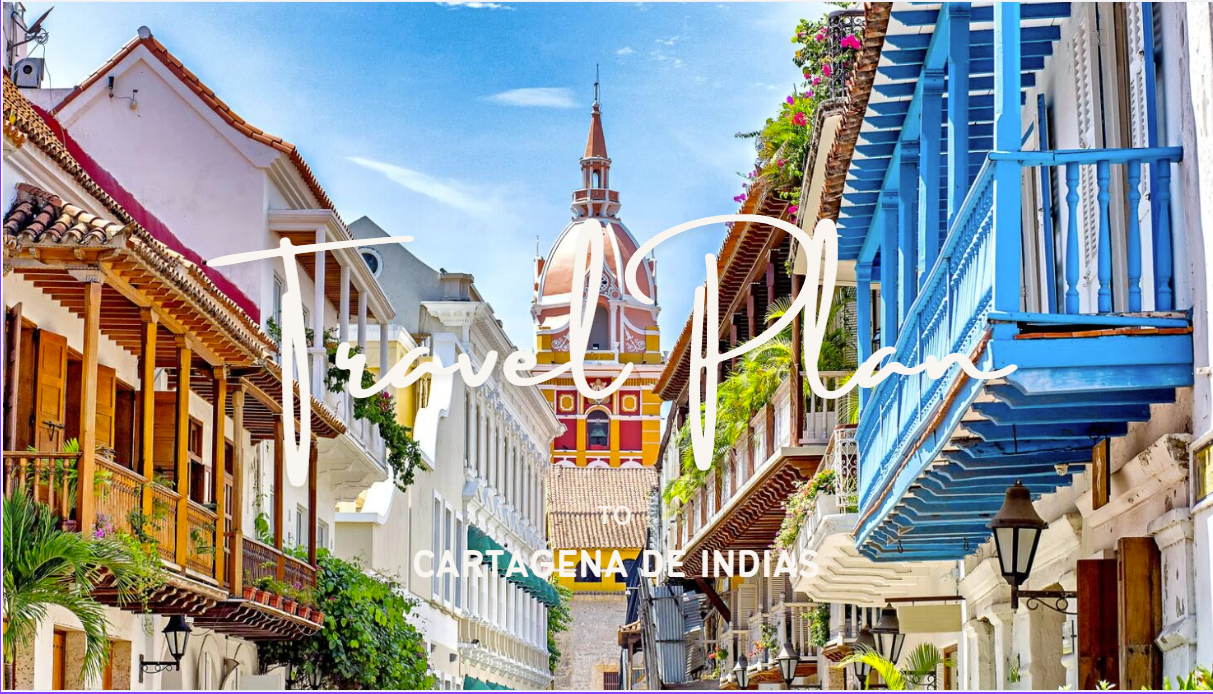
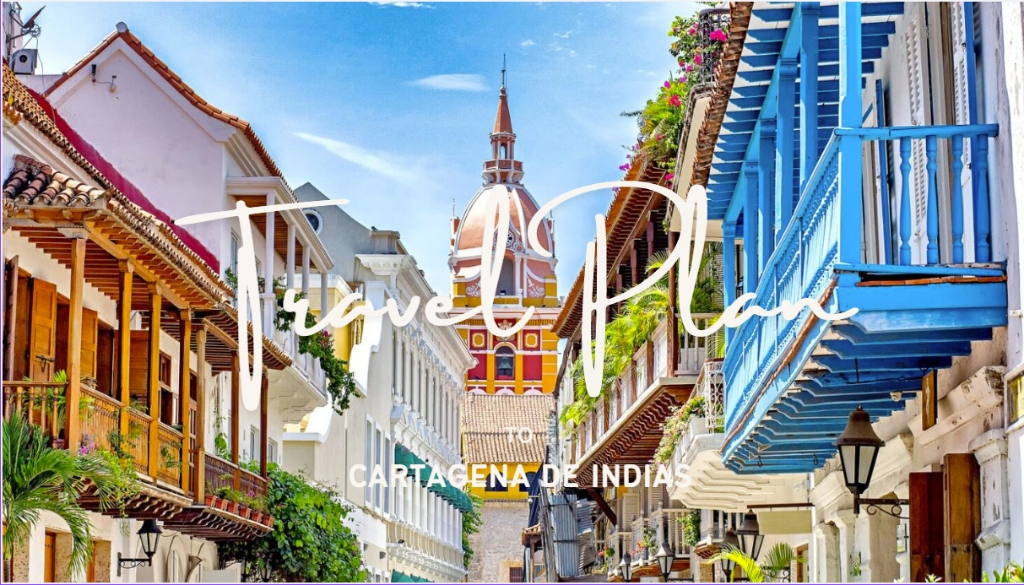
enlaces de canva

diff --git a/css/style.css b/css/style.css
@@ -1,19 +1,30 @@
 /* ==========================================================================
-   VARIABLES Y CONFIGURACIÓN GLOBAL
+   VARIABLES Y CONFIGURACIÓN GLOBAL (PALETA AZUL Y AMARILLO)
    ========================================================================== */
 :root {
-    --primary: #5548ea;
-    --primary-hover: #4335da;
-    --primary-light: #f7f5ff;
-    --primary-bubble: #e8e3ff;
-    --text-title: #1e293b;
-    --text-muted: #64748b;
-    --text-body: #475569;
-    --border-color: #e2e8f0;
-    --border-subtle: #f1f3f7;
-    --card-bg: #ffffff;
-    --body-bg: #ebf0f7;
-    --shadow-card: 0 12px 40px rgba(26, 42, 68, 0.07);
+    /* Azules */
+    --primary: #1d4ed8;            /* Azul vibrante elegante */
+    --primary-dark: #1e3a8a;       /* Azul marino profundo */
+    --primary-hover: #172554;      /* Azul noche para contrastes */
+    --primary-light: #f0f7ff;      /* Fondo azul cielo muy suave */
+    --primary-bubble: #dbeafe;     /* Azul claro para aros e iconos */
+
+    /* Amarillos */
+    --accent: #eab308;             /* Amarillo oro brillante */
+    --accent-hover: #ca8a04;       /* Amarillo dorado oscuro para hover */
+    --accent-light: #fefce8;       /* Amarillo crema sutil */
+    --accent-bubble: #fef08a;      /* Amarillo suave para iconos */
+
+    /* Textos y neutros */
+    --text-title: #0f172a;         /* Azul marino muy oscuro */
+    --text-muted: #64748b;         /* Gris azulado elegante */
+    --text-body: #334155;          /* Gris pizarra de alta legibilidad */
+    
+    --border-color: #cbd5e1;       /* Bordes de inputs */
+    --border-subtle: #f1f5f9;      /* Divisores entre proyectos */
+    --card-bg: #ffffff;            /* Blanco puro para tarjeta central */
+    --body-bg: #f1f5f9;            /* Fondo exterior gris azulado */
+    --shadow-card: 0 14px 40px rgba(15, 23, 42, 0.08);
     --transition: all 0.25s cubic-bezier(0.4, 0, 0.2, 1);
 }
 
@@ -87,12 +98,12 @@ body {
 }
 
 .nav-link:hover {
-    color: var(--text-title);
+    color: var(--primary-dark);
 }
 
-/* Pestaña activa con línea púrpura inferior */
+/* Pestaña activa con línea amarilla inferior */
 .nav-link.active {
-    color: var(--primary);
+    color: var(--primary-dark);
     font-weight: 600;
 }
 
@@ -102,8 +113,8 @@ body {
     bottom: -2px;
     left: 0;
     width: 100%;
-    height: 2.5px;
-    background-color: var(--primary);
+    height: 3px;
+    background-color: var(--accent);
     border-radius: 2px;
 }
 
@@ -125,13 +136,13 @@ body {
     display: inline-block;
 }
 
-/* Pequeña barra púrpura decorativa bajo la primera palabra */
+/* Barra amarilla decorativa bajo el título */
 .section-title::after {
     content: '';
     display: block;
     width: 32px;
     height: 3.5px;
-    background-color: var(--primary);
+    background-color: var(--accent);
     border-radius: 2px;
     margin-top: 8px;
 }
@@ -153,7 +164,7 @@ body {
     border-radius: 50%;
     background: #dbeafe;
     padding: 5px;
-    box-shadow: 0 4px 14px rgba(85, 72, 234, 0.12);
+    box-shadow: 0 4px 16px rgba(29, 78, 216, 0.15);
 }
 
 .avatar {
@@ -179,10 +190,11 @@ body {
     margin-bottom: 18px;
 }
 
+/* Línea divisoria en amarillo */
 .divider {
     width: 45px;
     height: 3px;
-    background-color: #93c5fd;
+    background-color: var(--accent);
     border: none;
     border-radius: 2px;
     margin: 0 auto 18px;
@@ -211,10 +223,10 @@ body {
     justify-content: center;
     gap: 12px;
     padding: 12px 20px;
-    border: 1.5px solid #c7d2fe;
+    border: 1.5px solid #bfdbfe;
     border-radius: 12px;
     background-color: #ffffff;
-    color: #1e1b4b;
+    color: var(--primary-dark);
     text-decoration: none;
     font-size: 15px;
     font-weight: 600;
@@ -226,7 +238,7 @@ body {
     border-color: var(--primary);
     color: var(--primary);
     transform: translateY(-2px);
-    box-shadow: 0 4px 12px rgba(85, 72, 234, 0.15);
+    box-shadow: 0 4px 12px rgba(29, 78, 216, 0.15);
 }
 
 .social-btn .icon {
@@ -307,10 +319,12 @@ body {
 
 .project-link:hover {
     gap: 10px;
-    color: var(--primary-hover);
+    color: var(--accent-hover);
 }
 
 .project-link .arrow {
+    color: var(--accent);
+    font-weight: bold;
     transition: transform 0.2s ease;
 }
 
@@ -325,7 +339,8 @@ body {
     overflow: hidden;
     flex-shrink: 0;
     background-color: var(--primary-light);
-    box-shadow: 0 4px 16px rgba(85, 72, 234, 0.06);
+    border: 1.5px solid #e2e8f0;
+    box-shadow: 0 4px 16px rgba(15, 23, 42, 0.06);
 }
 
 .project-img {
@@ -347,7 +362,7 @@ body {
     display: grid;
     grid-template-columns: 1.15fr 0.95fr;
     gap: 40px;
-    align-items: start;
+    align-items: center;
     width: 100%;
 }
 
@@ -394,7 +409,7 @@ body {
 .form-input:focus {
     outline: none;
     border-color: var(--primary);
-    box-shadow: 0 0 0 3.5px rgba(85, 72, 234, 0.12);
+    box-shadow: 0 0 0 3.5px rgba(29, 78, 216, 0.15);
 }
 
 .form-textarea {
@@ -407,7 +422,7 @@ body {
     align-items: center;
     justify-content: center;
     gap: 10px;
-    background-color: var(--primary);
+    background-color: var(--primary-dark);
     color: #ffffff;
     border: none;
     border-radius: 9px;
@@ -421,64 +436,59 @@ body {
     transition: var(--transition);
 }
 
-.btn-submit:hover {
-    background-color: var(--primary-hover);
-    transform: translateY(-2px);
-    box-shadow: 0 6px 18px rgba(85, 72, 234, 0.32);
-}
-
 .btn-submit .btn-icon {
     width: 17px;
     height: 17px;
+    color: var(--accent);
+    transition: color 0.2s ease;
+}
+
+.btn-submit:hover {
+    background-color: var(--accent);
+    color: var(--text-title);
+    transform: translateY(-2px);
+    box-shadow: 0 6px 20px rgba(234, 179, 8, 0.4);
+}
+
+.btn-submit:hover .btn-icon {
+    color: var(--text-title);
 }
 
 /* Columna Derecha de Contacto */
 .contact-right {
     display: flex;
     flex-direction: column;
-    align-items: center;
-    gap: 22px;
-}
-
-.contact-illustration-wrap {
-    width: 100%;
-    max-width: 250px;
-    display: flex;
     justify-content: center;
-}
-
-.contact-illustration {
-    width: 100%;
-    height: auto;
-    max-height: 220px;
-    object-fit: contain;
-    border-radius: 14px;
+    align-items: center;
+    height: 100%;
 }
 
 .direct-contact-card {
     width: 100%;
-    background-color: var(--primary-light);
-    border-radius: 14px;
-    padding: 18px 20px;
+    background: linear-gradient(145deg, #f0f7ff 0%, #fefce8 100%);
+    border-radius: 16px;
+    padding: 26px 22px;
     display: flex;
     align-items: center;
-    gap: 16px;
+    gap: 18px;
     text-align: left;
-    border: 1px solid rgba(85, 72, 234, 0.08);
+    border: 1.5px solid #bfdbfe;
+    box-shadow: 0 6px 20px rgba(15, 23, 42, 0.05);
     transition: var(--transition);
 }
 
 .direct-contact-card:hover {
-    box-shadow: 0 4px 16px rgba(85, 72, 234, 0.1);
+    border-color: var(--accent);
+    box-shadow: 0 8px 24px rgba(29, 78, 216, 0.12);
     transform: translateY(-2px);
 }
 
 .direct-contact-icon {
-    width: 44px;
-    height: 44px;
+    width: 48px;
+    height: 48px;
     border-radius: 50%;
-    background-color: var(--primary-bubble);
-    color: var(--primary);
+    background-color: var(--accent-bubble);
+    color: var(--primary-dark);
     display: flex;
     align-items: center;
     justify-content: center;
@@ -486,14 +496,14 @@ body {
 }
 
 .direct-contact-icon svg {
-    width: 22px;
-    height: 22px;
+    width: 24px;
+    height: 24px;
 }
 
 .direct-contact-info {
     display: flex;
     flex-direction: column;
-    gap: 2px;
+    gap: 4px;
 }
 
 .direct-contact-label {
@@ -503,9 +513,9 @@ body {
 }
 
 .direct-contact-email {
-    font-size: 14.5px;
+    font-size: 15px;
     font-weight: 700;
-    color: var(--primary);
+    color: var(--primary-dark);
     text-decoration: none;
     transition: color 0.2s;
     word-break: break-all;
@@ -513,7 +523,7 @@ body {
 
 .direct-contact-email:hover {
     text-decoration: underline;
-    color: var(--primary-hover);
+    color: var(--accent-hover);
 }
 
 .direct-contact-note {
@@ -557,7 +567,7 @@ body {
 
     .project-media {
         width: 100%;
-        height: 190px;
+        height: 200px;
     }
 
     .project-name {
@@ -567,7 +577,7 @@ body {
     /* Contacto en móvil */
     .contact-grid {
         grid-template-columns: 1fr;
-        gap: 32px;
+        gap: 28px;
     }
 
     .btn-submit {
@@ -575,10 +585,6 @@ body {
     }
 
     .contact-right {
-        margin-top: 10px;
-    }
-
-    .contact-illustration-wrap {
-        max-width: 200px;
+        margin-top: 6px;
     }
 }

diff --git a/proyectos.html b/proyectos.html
@@ -53,7 +53,7 @@
         <!-- ENCABEZADO DE PROYECTOS -->
         <section class="section-header">
             <h1 class="section-title">Proyectos</h1>
-            <p class="section-subtitle">Aquí algunos proyectos en los que he trabajado.</p>
+            <p class="section-subtitle">Inventario disponible!</p>
         </section>
 
         <!-- LISTADO DE PROYECTOS -->
@@ -62,15 +62,16 @@
             <!-- PROYECTO 1 -->
             <article class="project-item">
                 <div class="project-info">
-                    <h2 class="project-name">Proyecto Plan de marketing</h2>
-                    <p class="project-desc">Diseño y desarrollo de plan de marketing digital enfocado en redes sociales
-                        y posicionamiento.</p>
+                    <h2 class="project-name">Jordan
+
+                    </h2>
+                    <p class="project-desc">Landing page con catálogo de zapatillas Jordan.</p>
                     <a href="https://github.com" target="_blank" rel="noopener noreferrer" class="project-link">
                         Ver proyecto <span class="arrow">&rarr;</span>
                     </a>
                 </div>
                 <div class="project-media">
-                    <img src="img/proyecto1.png" alt="Proyecto Plan de marketing" class="project-img">
+                    <img src="img/Jordan.png" alt="Zapatillas Jordan" class="project-img">
                 </div>
             </article>
 

diff --git a/contacto.html b/contacto.html
@@ -98,13 +98,8 @@
 
             </div>
 
-            <!-- COLUMNA DERECHA: ILUSTRACIÓN Y CONTACTO DIRECTO -->
+            <!-- COLUMNA DERECHA: CONTACTO DIRECTO -->
             <div class="contact-right">
-
-                <div class="contact-illustration-wrap">
-                    <img src="img/contacto-ilustracion.jpg" alt="Ilustración de sobre con carta y avión de papel"
-                        class="contact-illustration">
-                </div>
 
                 <div class="direct-contact-card">
                     <div class="direct-contact-icon">
